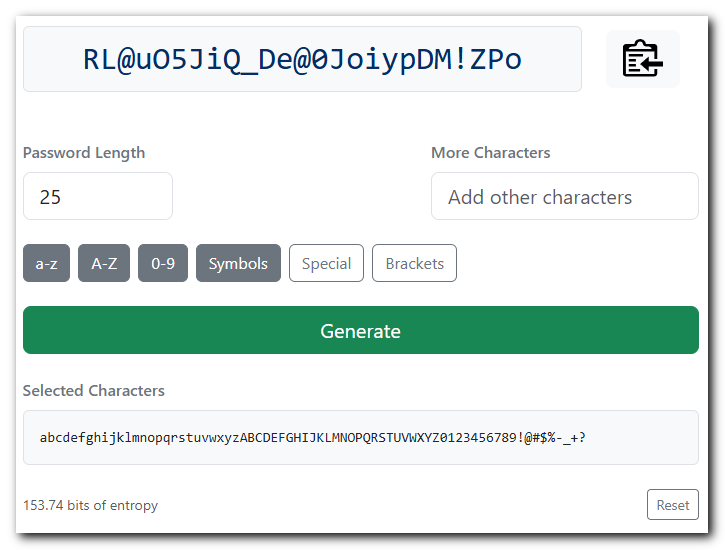
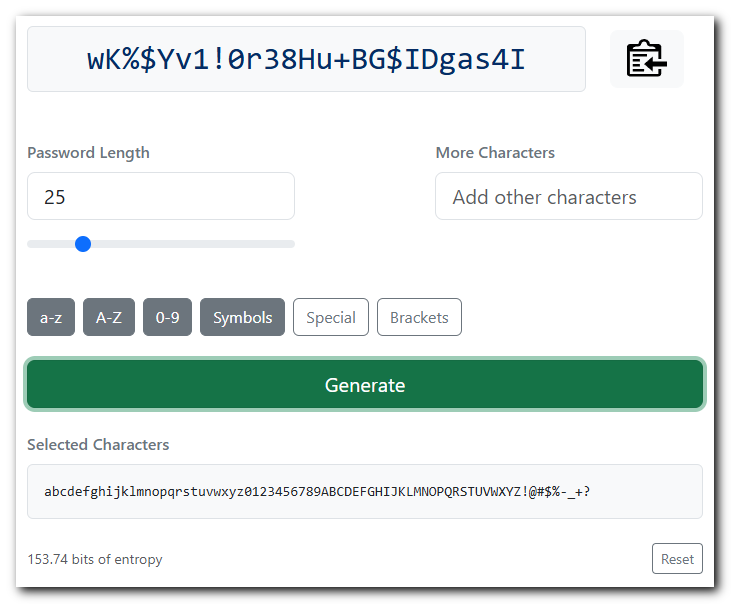
Add range selector for password length
Adjust layout, keeping the password from wrapping. Scrolling still works
and makes the layout more compact, especially on mobile.

diff --git a/public/index.html b/public/index.html
@@ -56,8 +56,8 @@
 
       <div class="row mb-md-5">
         <div class="col-md-10">
-          <div id="generated-password" class="bg-light text-center font-monospace fs-2 text-primary-emphasis flex-grow-1 border rounded px-3 py-2"
-            style="overflow-wrap: break-word; word-break: break-all; min-height: 4rem;">
+          <div id="generated-password" class="bg-light text-center font-monospace fs-2 text-primary-emphasis flex-grow-1 border rounded px-3 py-2 overflow-x-auto text-nowrap"
+            style="min-height: 4rem;">
             {{ password }}
           </div>
         </div>
@@ -69,10 +69,11 @@
         </div>
       </div>
 
-      <div class="row align-items-center mb-4">
+      <div class="row mb-4">
         <div class="col-md-5 col-sm-6">
           <label class="form-label text-secondary fw-semibold">Password Length</label>
-          <input class="form-control form-control-lg" type="number" v-model="passwordLength" min="1" :max="maxPasswordLength" style="max-width: 150px">
+          <input class="form-control form-control-lg" type="number" v-model="passwordLength" min="1" :max="maxPasswordLength">
+          <input type="range" class="form-range form-control-lg" v-model="passwordLength" min="1" :max="maxPasswordLength" step="1">
         </div>
         <div class="col-md-5 col-sm-6 ms-md-auto">
           <label class="form-label text-secondary fw-semibold">More Characters</label>
@@ -116,9 +117,7 @@
   <footer class="footer bg-light py-4 mt-5">
     <div class="container">
       <div class="text-center">
-        <p class="mb-0">
-          Built by <a href="https://dan.hersam.com">Dan Hersam</a> | <a href="https://github.com/jaden/passgen">Source on GitHub</a>
-        </p>
+        Built by <a href="https://dan.hersam.com">Dan Hersam</a> | <a href="https://github.com/jaden/passgen">Source on GitHub</a>
       </div>
     </div>
   </footer>

diff --git a/README.md b/README.md
@@ -2,7 +2,7 @@
 
 ![](password-generator.png)
 
-A simple, static password generator that uses `window.crypto.getRandomValues()` for cryptographically secure pseudo random numbers.
+A simple, static password generator that uses `crypto.getRandomValues()` for cryptographically secure pseudo random numbers.
 
 It can be run locally by opening `index.html` in your web browser. All assets are included in the repository so no network connection is required.
 
@@ -10,8 +10,8 @@ Hosted online at https://passgen.danhersam.com
 
 ## Usage
 
-* Choose the number of characters in the password
-* Select the character sets to use or enter individual characters to be used in the password
+* Adjust the password length
+* Select the character sets to use or enter additional characters to be used to generate the password
 * Click the clipboard button to copy the password to your clipboard
 
 ## Built with
